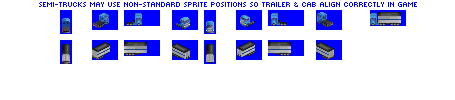
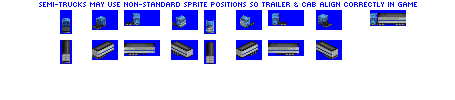
Change: improved Coldfall reefer truck (new trailer sprites, changed length)

diff --git a/src/vehicles/coldfall.py b/src/vehicles/coldfall.py
@@ -13,12 +13,12 @@ consist = RVConsist(vehicle_type = RefrigeratedHauler,
 consist.add_unit(weight = 17,
                 capacity = 0,
                 vehicle_length = 2,
-                semi_truck_shift_offset_jank = 3,
+                semi_truck_shift_offset_jank = 2,
                 effects = ['EFFECT_SPRITE_DIESEL, -2, 1, 10'])
 
 consist.add_unit(weight = 10,
                 capacity = 40,
-                vehicle_length = 6)
+                vehicle_length = 8)
 
 consist.add_model_variant(intro_date=0,
                        end_date=global_constants.max_game_date,
